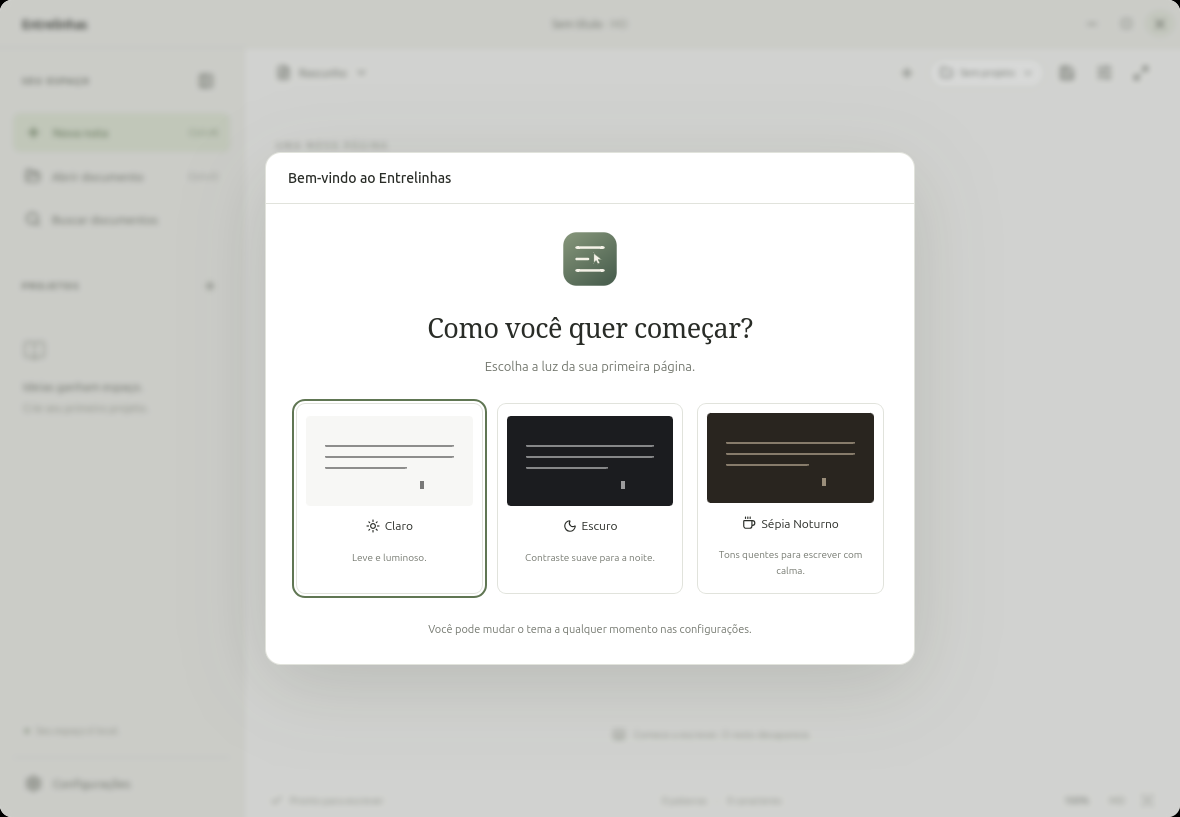
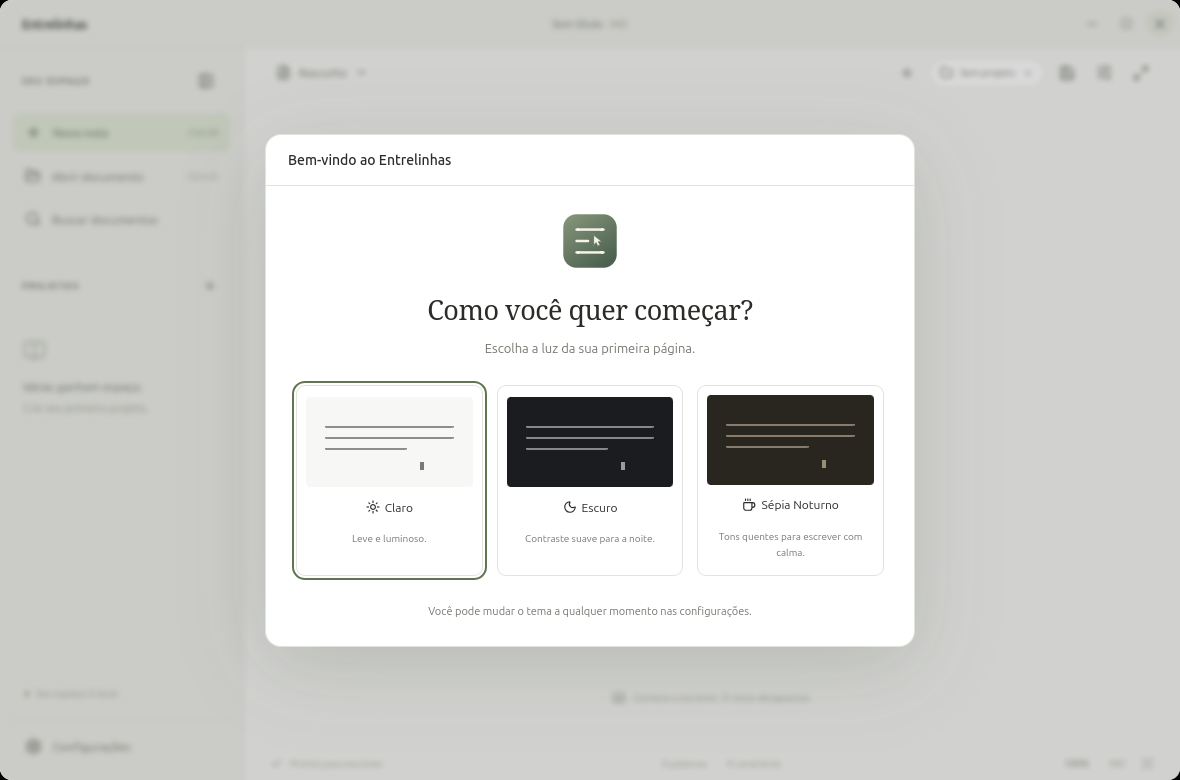
u24 - versão 1.0.0

diff --git a/scripts/test-desktop.py b/scripts/test-desktop.py
@@ -2,6 +2,7 @@
 """Testes reais do Tauri/WebKitGTK. Usa uma biblioteca e arquivos isolados."""
 import argparse
 import base64
+import hashlib
 import json
 import http.client
 import os
@@ -232,6 +233,9 @@ def main():
         try:
             wait(lambda: urllib.request.urlopen(f'http://127.0.0.1:{port}/status', timeout=1).status == 200, 'WebDriver')
             app.start(choose_theme=False)
+            native_version = app.ipc('plugin:app|version')
+            assert native_version == json.loads((root / 'package.json').read_text())['version']
+            development_server = app.js('return location.origin === "http://127.0.0.1:1420"')
             assert app.js('return document.querySelectorAll(".welcome-modal .theme-choice").length') == 3
             assert not app.ipc('load_library')['preferences'], 'O tema padrão não deve ser persistido antes da escolha.'
             app.screenshot(output / 'welcome.png')
@@ -580,8 +584,8 @@ def main():
             app.js('return [...document.querySelectorAll(".nav-button")].find(button=>button.innerText.includes("Buscar documentos")).click()')
             app.keys('[aria-label="Buscar documentos salvos"]', 'EXTERNA')
             assert app.js('const wrapper=document.querySelector(".global-search-input"), input=wrapper.querySelector("input"), icon=wrapper.querySelector("svg");return input.getBoundingClientRect().left+parseFloat(getComputedStyle(input).paddingLeft)-icon.getBoundingClientRect().right>=16 && getComputedStyle(input).outlineStyle==="none"')
-            app.screenshot(output / 'search-spacing.png')
             wait(lambda: app.js('return !!document.querySelector(".search-result")'), 'busca nos arquivos salvos')
+            app.screenshot(output / 'search-spacing.png')
             assert 'Entre as linhas.md' in app.js('return document.querySelector(".search-result").innerText')
             app.click('[aria-label="Fechar painel"]')
             passed('busca global lê o conteúdo salvo no disco')
@@ -627,7 +631,7 @@ def main():
             app.click('[aria-label="Fechar aplicativo"]')
             time.sleep(.2)
             app.stop()
-            (output.parent / 'desktop-results.json').write_text(json.dumps({'passed': len(results), 'checks': results, 'engine': 'Tauri 2 / WebKitGTK', 'platform': 'Ubuntu 26.10 / Wayland'}, ensure_ascii=False, indent=2))
+            (output.parent / 'desktop-results.json').write_text(json.dumps({'passed': len(results), 'checks': results, 'engine': 'Tauri 2 / WebKitGTK', 'platform': 'Ubuntu 26.10 / Wayland', 'version': native_version, 'binary': args.binary, 'sha256': hashlib.sha256((root / args.binary).read_bytes()).hexdigest(), 'developmentServer': development_server, 'fileChooser': provider}, ensure_ascii=False, indent=2))
             print(f'\n{len(results)} verificações desktop passaram.', flush=True)
         finally:
             app.stop()

diff --git a/README.md b/README.md
@@ -8,9 +8,11 @@ Entrelinhas é um editor **desktop de verdade**, feito com Tauri 2, React e Type
 
 ## Suas palavras, no seu tempo
 
-- Inicialização sempre em uma nota nova, vazia e mantida em memória.
+- Inicialização sempre em uma nota nova, vazia e mantida em memória. Escrita sem o cabeçalho decorativo, começando mais acima.
+- Tamanho e maximização da janela lembrados ao reabrir. Duplo clique na área livre da barra maximiza ou restaura.
+- Duplo clique no título abre a edição do nome: rascunhos ganham um nome sugerido; arquivos salvos são renomeados na mesma pasta, sem salvar as alterações do editor nem substituir outro arquivo.
 - **Nenhum salvamento automático, recuperação de rascunhos ou restauração de abas.**
-- Salvamento manual em arquivos Markdown e TXT comuns, em qualquer pasta.
+- Salvamento manual em arquivos Markdown e TXT comuns, em qualquer pasta. Abertura e salvamento pelo explorador do desktop via XDG Desktop Portal; no GNOME, utiliza o Nautilus. Os diálogos começam na pasta Documentos configurada no sistema; Salvar como mantém o caminho do arquivo aberto.
 - Projetos lógicos com nome, cor, ícone opcional e referências a documentos externos.
 - Guias ocultas com uma única nota; botão **Nova guia** e **Ctrl+T** revelam a faixa ao abrir a segunda. Guias reordenáveis, com conteúdo, seleção e histórico preservados ao alternar.
 - Interface imersiva automática, alternância manual, acesso por Esc e aproximação das bordas.
@@ -39,7 +41,7 @@ O editor usa TipTap/ProseMirror, com desfazer/refazer, composição de texto, Un
 
 Suporta negrito, itálico, sublinhado, tachado, títulos, listas, checklists interativas, citações, código, links, separadores, alinhamento, destaque, cores, tamanho de texto, imagens e tabelas com edição de linhas e colunas.
 
-O formato inicial é `.md`. Altere para `.txt` em **Configurações → Arquivos**. O seletor **Salvar como** também permite escolher o formato para cada arquivo.
+O formato inicial é `.md`. Altere para `.txt` em **Configurações → Arquivos**. O seletor **Salvar como** também permite escolher o formato para cada arquivo. A aparência e os controles do explorador seguem o desktop; o pacote inclui as dependências do portal e o Zenity como alternativa.
 
 - **Markdown:** títulos, listas, links, código e demais elementos comuns usam sintaxe Markdown. Cor, tamanho, sublinhado, alinhamento, tabelas e tarefas utilizam HTML compatível dentro do Markdown quando necessário para manter a formatação reversível.
 - **TXT:** contém somente texto UTF-8. Antes de exportar conteúdo formatado, o aplicativo avisa sobre a perda de formatação e imagens. O editor aberto mantém a versão rica até ser fechado.
@@ -61,7 +63,7 @@ As capturas abaixo são da janela Tauri real, executada no Ubuntu 26.10 com Wayl
 | ------------------------------------ | ------------------------------------ | -------------------------------------------- |
 | ![Claro](docs/screenshots/light.png) | ![Escuro](docs/screenshots/dark.png) | ![Sépia Noturno](docs/screenshots/sepia.png) |
 
-[Ver o modo imersivo](docs/screenshots/imersivo.png) · [Escolha inicial de tema](docs/screenshots/welcome.png) · [Seletor de cores no Sépia Noturno](docs/screenshots/color-sepia.png) · [Seleção de projeto](docs/screenshots/project-picker.png) · [Menus temáticos](docs/screenshots/select-sepia.png) · [Formatação inferior](docs/screenshots/formatting-bottom.png) · [Dicas de botões](docs/screenshots/tooltip-sepia.png).
+[Ver o modo imersivo](docs/screenshots/imersivo.png) · [Escolha inicial de tema](docs/screenshots/welcome.png) · [Seletor de cores no Sépia Noturno](docs/screenshots/color-sepia.png) · [Seleção de projeto](docs/screenshots/project-picker.png) · [Menus temáticos](docs/screenshots/select-sepia.png) · [Formatação inferior](docs/screenshots/formatting-bottom.png) · [Dicas de botões](docs/screenshots/tooltip-sepia.png) · [Edição do título](docs/screenshots/rename-title.png) · [Busca com mais espaço](docs/screenshots/search-spacing.png) · [Página inicial sem cabeçalho](docs/screenshots/blank.png).
 
 Os menus de seleção e as dicas usam as cores do tema do aplicativo. Os seletores de opções permitem navegar com setas, Home/End, digitar o início do nome e confirmar com Enter; Esc cancela a seleção sem fechar as configurações. Os diálogos do sistema para abrir e salvar arquivos acompanham o modo claro ou escuro; Sépia Noturno usa a variante escura do GTK.
 
@@ -73,12 +75,12 @@ O projeto foi compilado e verificado no **Ubuntu 26.10, x86_64, GNOME/Wayland**.
 
 ### Pacote Debian
 
-[Baixe o instalador e os checksums da versão 0.3.0](https://github.com/Bit-Devy/entrelinhas/releases/tag/v0.3.0).
+[Baixe o instalador e os checksums da versão 1.0.0](https://github.com/Bit-Devy/entrelinhas/releases/tag/v1.0.0).
 
 Para instalar um pacote compilado localmente:
 
 ```bash
-sudo apt install ./src-tauri/target/release/bundle/deb/Entrelinhas_0.3.0_amd64.deb
+sudo apt install ./src-tauri/target/release/bundle/deb/Entrelinhas_1.0.0_amd64.deb
 ```
 
 O aplicativo aparece no menu como **Entrelinhas**, com ícone próprio. O pacote depende do WebKitGTK 4.1 e GTK 3 do sistema. Uma compilação feita no Ubuntu 26.10 não garante compatibilidade binária com versões anteriores do Ubuntu; para elas, compile no sistema de destino.
@@ -106,11 +108,12 @@ npm ci
 npm run desktop
 ```
 
-Bibliotecas instaladas pelo script:
+Bibliotecas e serviços instalados pelo script:
 
 ```text
 libwebkit2gtk-4.1-dev build-essential curl wget file
 libxdo-dev libssl-dev libayatana-appindicator3-dev librsvg2-dev gh
+xdg-desktop-portal xdg-desktop-portal-gnome zenity
 ```
 
 `npm run desktop` inicia Vite e a janela Tauri juntos. `npm run dev` sozinho serve a interface para desenvolvimento, mas as operações nativas exigem a janela desktop. Não existe armazenamento simulado no navegador.
@@ -147,7 +150,7 @@ npm run dev
 npm run test:desktop
 ```
 
-Se o WebKitWebDriver não estiver no PATH, defina `WEBKIT_WEBDRIVER=/caminho/para/WebKitWebDriver`. O teste cria sua própria instância de `tauri-driver`, diretório XDG, banco SQLite e arquivos temporários. O seletor nativo é operado por AT-SPI somente na instância isolada do teste. Nenhum arquivo pessoal é utilizado.
+Se o WebKitWebDriver não estiver no PATH, defina `WEBKIT_WEBDRIVER=/caminho/para/WebKitWebDriver`. O teste cria sua própria instância de `tauri-driver`, diretórios XDG de dados e configuração, banco SQLite e arquivos temporários dentro de `artifacts/`. O seletor do portal é operado por AT-SPI: o roteiro identifica somente a nova janela criada após seu pedido e exclui diálogos que já estavam abertos. A pasta Documentos é redirecionada apenas na configuração isolada do teste. Nenhum documento pessoal é utilizado.
 
 O mesmo roteiro pode validar a versão empacotada:
 
@@ -157,9 +160,9 @@ python3 scripts/test-desktop.py --binary src-tauri/target/release/entrelinhas
 
 ### Verificações realizadas
 
-- **58 testes TypeScript:** notas, abas, descarte, preferências, atalhos, Markdown, formatação, TXT, Unicode, busca, imagens, gravação explícita, conflitos, espera de gravações, centralização com diferentes painéis, seletores próprios por mouse e teclado, dicas, guias sob demanda, abertura sem perder texto e primeira escolha de tema.
-- **6 testes Rust:** gravação atômica, conflitos, UTF-8, nomes internacionais, imagens relativas, arquivos somente leitura, recursos inválidos, projetos em Downloads, exclusão sem apagar documentos, localização e busca.
-- **23 verificações desktop:** inicialização, ocultação sem deslocamento, Esc, descarte após reiniciar, Ctrl+S com seletor GNOME, associação externa, abas, busca/substituição, colagem de imagens, temas, cursores, persistência, layout, F11, conflitos, busca global, confirmação opcional, TXT, paleta de cores nos três temas, primeira abertura, centralização ao redimensionar, formatação inferior sem moldura, menus de tabela e dicas nos três temas.
+- **72 testes TypeScript:** notas, abas, descarte, preferências, atalhos, Markdown, formatação, TXT, Unicode, busca, imagens, gravação explícita, conflitos, espera de gravações, centralização com diferentes painéis, seletores próprios por mouse e teclado, dicas, guias sob demanda, abertura sem perder texto, primeira escolha de tema, edição de títulos e nome sugerido ao salvar.
+- **9 testes Rust:** gravação atômica, conflitos, UTF-8, nomes internacionais, imagens relativas, arquivos somente leitura, recursos inválidos, projetos em Downloads, exclusão sem apagar documentos, localização, busca, renomeação sem sobrescrever, preservação de imagens e projeto e reversão em caso de falha no registro.
+- **28 verificações desktop:** inicialização, ocultação sem deslocamento, Esc, descarte após reiniciar, Ctrl+S com seletor GNOME, associação externa, abas, busca/substituição, colagem de imagens, temas, cursores, persistência, layout, F11, conflitos, busca global, confirmação opcional, TXT, paleta de cores nos três temas, primeira abertura, centralização ao redimensionar, formatação inferior sem moldura, menus de tabela, dicas nos três temas, tamanho da janela após reiniciar, duplo clique na barra, títulos, espaçamento dos campos e abertura/salvamento pelo Nautilus.
 - O roteiro desktop também passou no **executável otimizado de produção, com o Vite desligado**.
 - Documento de **280 mil caracteres** carregado e editado no roteiro desktop. O tempo medido inclui definir o conteúdo e inserir texto; não representa um benchmark de latência por tecla.
 
@@ -189,6 +192,8 @@ Os testes verificam Unicode e o tratamento de eventos de composição. **Uma ses
 | Revelar interface                   | Esc                             |
 | Menu do documento                   | Alt+F; setas para navegar       |
 | Tela cheia                          | F11                             |
+| Maximizar / restaurar janela        | Duplo clique na área livre da barra |
+| Editar título                       | Duplo clique no título; Enter com foco nele |
 | Aumentar / reduzir / restaurar zoom | Ctrl+Plus / Ctrl+Minus / Ctrl+0 |
 
 Abrir o primeiro arquivo reutiliza a nota vazia inicial. Texto ou projeto já escolhidos nessa nota são preservados em uma guia separada. Ao voltar a uma única nota, a faixa de guias se recolhe.
@@ -217,6 +222,8 @@ src-tauri/
 assets/icon.svg   desenho original do ícone
 scripts/          preparação, instalação local e teste desktop
 ```
+
+A geometria da janela fica em `$XDG_CONFIG_HOME/io.github.bitdevy.entrelinhas/.window-state.json` (normalmente `~/.config/io.github.bitdevy.entrelinhas/`). Esse arquivo contém somente o estado da janela.
 
 Em uma instalação normal, o SQLite fica em `$XDG_DATA_HOME/io.github.bitdevy.entrelinhas/library.sqlite3` — normalmente `~/.local/share/io.github.bitdevy.entrelinhas/library.sqlite3`. O código-fonte não recebe dados pessoais.
 
